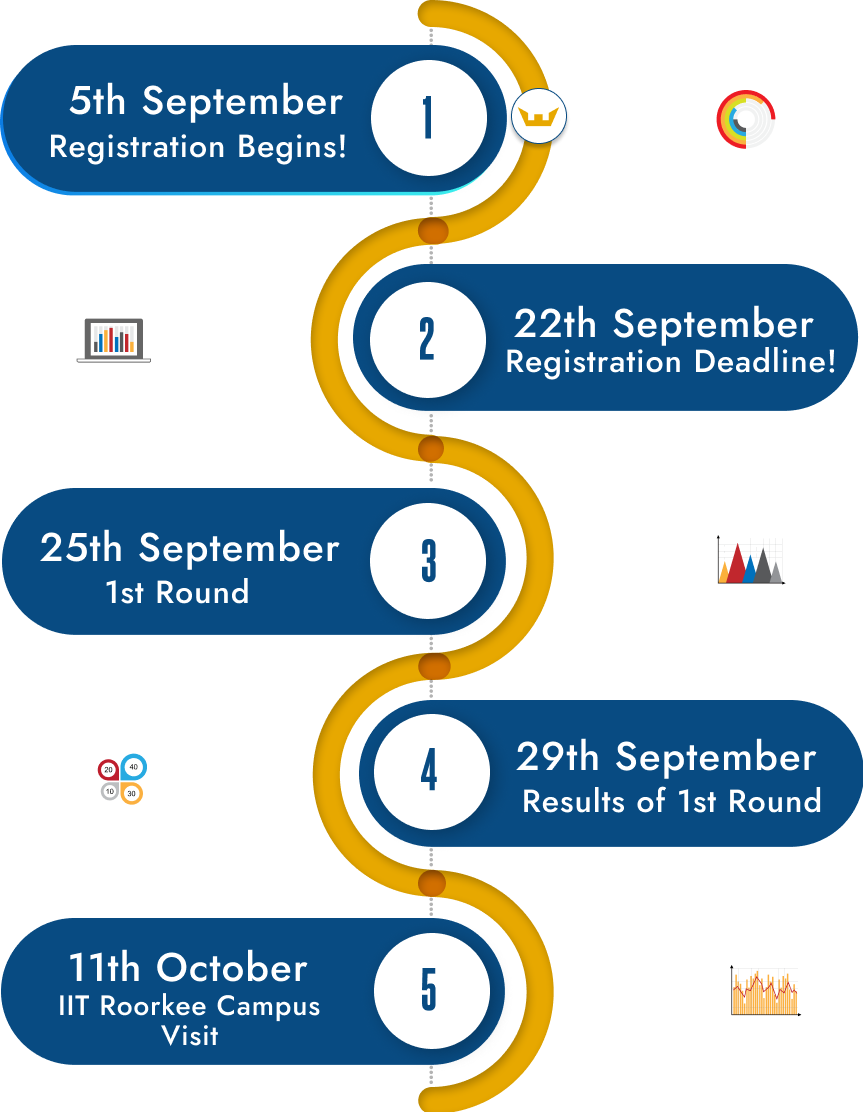
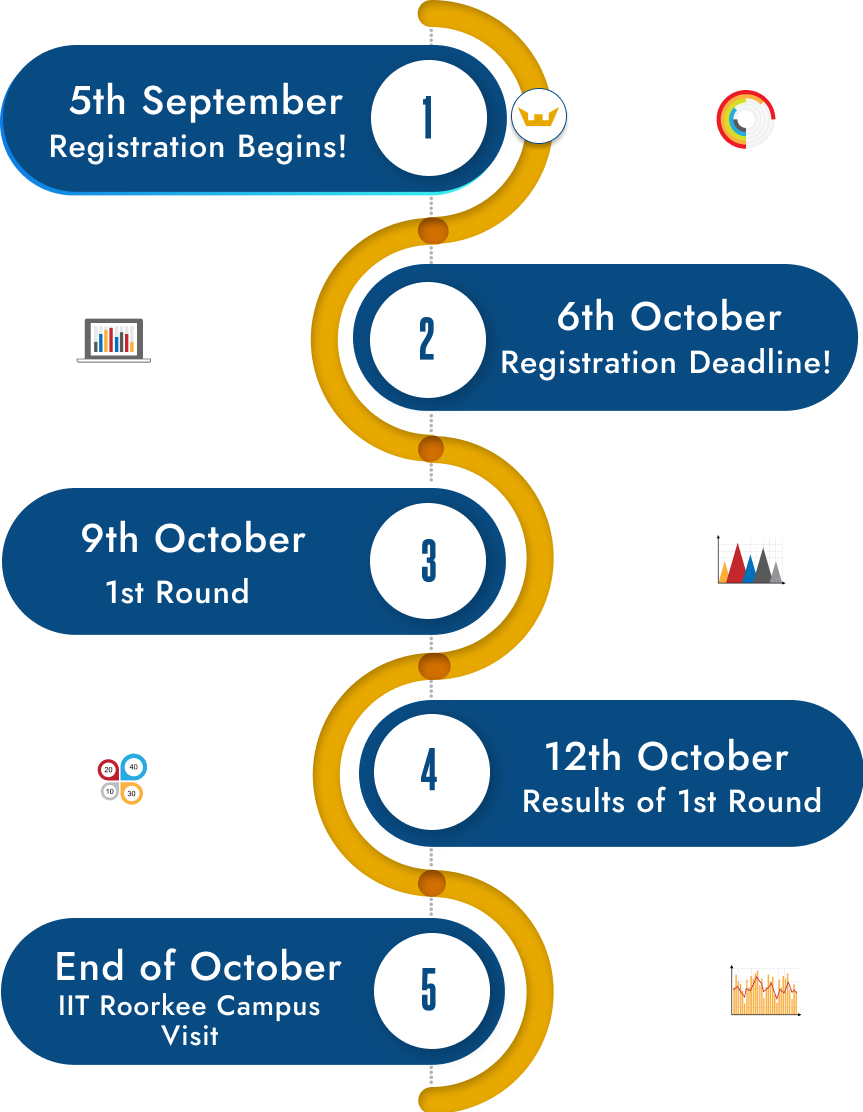
Gambitor Postpone Announcement

diff --git a/Frontend/src/Components/About/DateNVenue.jsx b/Frontend/src/Components/About/DateNVenue.jsx
@@ -17,7 +17,7 @@ const dateContent = [
     content: (
       <>
         The <span>Inception round</span> will be conducted through online mode
-        nationwide on 25th Sept 2022.
+        nationwide on 9th October 2022.
       </>
     ),
   },
@@ -26,7 +26,7 @@ const dateContent = [
     content: (
       <>
         The top performers in the Inception round will be invited to the campus
-        of IIT Roorkee in the <span>2nd week of October</span> for the Pinnacle
+        of IIT Roorkee in the <span>end of October</span> for the Pinnacle
         round.
       </>
     ),

diff --git a/Frontend/src/Components/Events/updatesContent.js b/Frontend/src/Components/Events/updatesContent.js
@@ -15,7 +15,7 @@ const updates = [
   {
     id: 3,
     description:
-      "The inception round of GambitoR will be held on 25th Sept 2022.",
+      "The inception round of GambitoR will be held on 9th October 2022.",
     // time: "TIME",
     // date: "DATE",
   },
